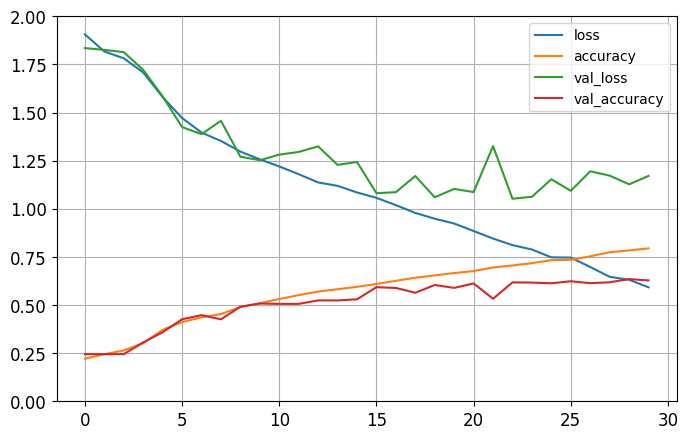
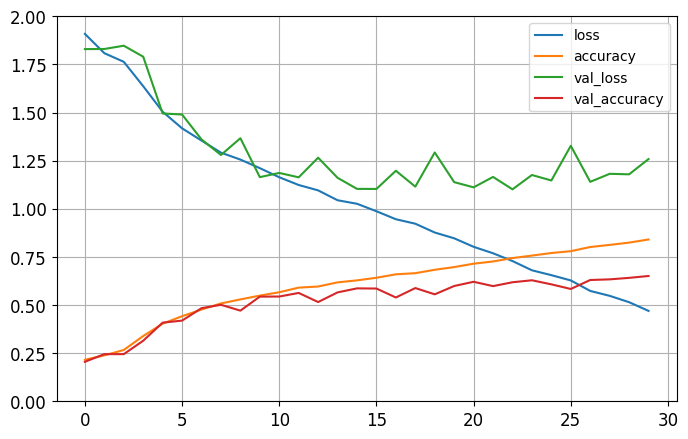
image change

Changed region(s): [[0.1221, 0.0888, 0.9462, 0.7699], [0.1831, 0.7699, 0.2137, 0.7995], [0.1221, 0.7995, 0.1526, 0.8292]]

diff --git a/README.md b/README.md
@@ -7,7 +7,7 @@
 -   [Model Running](#model-running)
 -   [Conclusion](#conclusion)
 -   [Future Research](#future-research)
--   [Run Notebook in Google Colab](#run-notebook-in-google-colab)
+-   [Google Colab Notebook](#google-colab-notebook)
 -   [Youtube Video Link](#youtube-video-link)
 
 # Introduction
@@ -54,7 +54,7 @@ To start off, we scoured the Internet in order to find an example code to start 
 The model itself is a sequential model that utilizes convolutional neural networks (CNNs), which is perfect for this project as CNNs are regarded to be very accurate at image recognition and classification. We have 2D convolution layers, where the kernel performs element wise multiplication and summation of results into a single output. For our activation function, we have a ReLU function in our hidden layers, as it circumvents the vanishing gradient problem, results in a better performance and converges at a faster rate than other activation functions. We have also discussed in class that the ReLU sometimes performs better than the hyperbolic tangent functions, and we have also found that to be the case in the process of hyperparameter tuning. The output layer is implemented with the softmax function and it suits our project as it is a multiclass classification problem - given the goal is to label each face with one of the seven emotions - and the softmax performs best when handling multiple classes. 
 
 ## Modifications
-Our next goal was to find a way to reconfigure the model in order to increase the accuracy of the model. We added batch normalization in order to stabilize the inputs, which we believe helped the model’s output at the end. Also, we added max pooling to remove invariances, making the model detect the presence of features rather than its exact location. The specific change we made was to remove average pooling and only utilize max pooling because we believe the former wasn’t extracting important features and was causing the accuracy to be lower. Since we wanted to eventually test the model on images of tilted faces in different angles, we found max pooling to be crucial in the model’s accuracy. Moreover, we added additional layers and experimented to find the optimal solution, meanwhile considering the time we had. Utilizing the GPU engine present in Google Colab, we experimented with different number of layers and tracked the accuracies, which sometimes dropped off from the starting point of 58% accuracy. Eventually, we ended up with a model with over 20 million parameters. We ran the model and received an accuracy ouput of 62%, which was a big improvement. We will dive deeper into the model results below in the conclusion.
+Our next goal was to find a way to reconfigure the model in order to increase the accuracy of the model. We added batch normalization in order to stabilize the inputs, which we believe helped the model’s output at the end. Also, we added max pooling to remove invariances, making the model detect the presence of features rather than its exact location. The specific change we made was to remove average pooling and only utilize max pooling because we believe the former wasn’t extracting important features and was causing the accuracy to be lower. Since we wanted to eventually test the model on images of tilted faces in different angles, we found max pooling to be crucial in the model’s accuracy. Moreover, we added additional layers and experimented to find the optimal solution, meanwhile considering the time we had. Utilizing the GPU engine present in Google Colab, we experimented with different number of layers and tracked the accuracies, which sometimes dropped off from the starting point of 58% accuracy. Eventually, we ended up with a model with over 20 million parameters. We ran the model and received an accuracy ouput of 65%, which was a big improvement. We will dive deeper into the model results below in the conclusion.
 
 
 # Facial Recognition
@@ -71,26 +71,8 @@ Let's use the below image as example for how we applied our model in "real-life"
 
 1. Before performing any face detection, we first converted the image to grayscale to reduce its noise and improve computational efficiency as it is easier to identify faces in grayscale than in color. 
 
-<p align="center">
-    <img src = "images/grayscale.png" alt = "Grayscale image">
-</p>
 
-2. Face detection
-- We used the pre-trained haarcascade classifier built in OpenCV for face detection. This algorithm uses edge or line detection features proposed by Viola and Jones. This model is based on the sum of pixels for various facial features - such as eyes are darker than the nose and cheeks regions, and eyes are darker than the bridge of the nose - and is trained with a lot of positive images with faces and negative images with no face. 
-- We chose to use the OpenCV haarcascade classifier because it is fast and requires less computing power, making it suitable for our limited time and resource. It can also detect faces in a wide range of orientations and scales, making them versatile for a variety of situations and scenarios. 
-- However, we have later learned that the downside of the haarcascade model is that it produces many false positives as shown below. 
-
-<p align="center">
-    <img src = "images/faulty_face_detection.png" alt = "Faulty face detection image">
-</p>
-
-- In order to reduce the number of false positive, we decided to make the filtering process a bit more strict: we increased the minNeighbors to three so false positives from the background are removed; and we modified the scaleFactor to 1.3 so the larger faces, or the main faces in the frame, can be detected faster and more accurately. (See below)
-
-<p align="center">
-    <img src = "images/final_face_detection_results.png" alt = "Improved face detection results">
-</p>
-
-- As we can see, these changes run the risk of missing some faces, but we think eliminating false positives is more important than missing a few true positives in terms of efficiency and accuracy.
+For face detection, we used the pre-trained haarcascade classifier built in OpenCV. This algorithm uses edge or line detection features proposed by Viola and Jones. This model is based on the sum of pixels for various facial features - such as eyes are darker than the nose and cheeks regions, and eyes are darker than the bridge of the nose - and is trained with a lot of positive images with faces and negative images with no face. We chose to use the OpenCV haarcascade classifier because it is fast and requires less computing power, making it suitable for our limited time and resource. It can also detect faces in a wide range of orientations and scales, making them versatile for a variety of situations and scenarios. However, we have later learned that the downside of the haarcascade model is that it produces many false positives. In order to reduce the number of false positive, we decided to make the filtering process a bit more strict: we increased the minNeighbors to three so false positives from the background are removed; and we modified the scaleFactor to 1.3 so the larger faces, or the main faces in the frame, can be detected faster and more accurately. These changes run the risk of missing some faces, but we think eliminating false positives is more important than missing a few true positives in terms of efficiency and accuracy.
 
 # Model Running
 (OYU)
@@ -99,20 +81,15 @@ Let's use the below image as example for how we applied our model in "real-life"
 - the results and accuracy of our model on those images
 
 
-"Real-life" imag           |  Emotion recognition results
-:-------------------------:|:-------------------------:
-![](https://github.com/OyuntugsGantumur/ML_project/blob/main/test_images/test_3.png?raw=true)  |  ![](https://github.com/OyuntugsGantumur/ML_project/blob/main/images/image_result_1.png?raw=true)
-
-
 # Conclusion
-In conclusion, we were able to find boilerplate code for our model and tweak the parameters in order to further improve and optimize it. The model started off having accuracy of 58% and we were able to raise to a consistent output of 62%, by the usage of batch regularization and max pooling. Looking at the result graph below we can see that there is a case of overfitting happening, which could be remedied by adding more data and reducing the number of features. The main issue that we faced in the process of conducting this research was the facial recognition system by Computer Vision library which would sometimes miss human facial features or falsely detect background areas as human faces, as we explained in detail above. This project could benefit from further research and development where we either find the optimal way of facial recognition or create a model that is fed with datasets filled with images of human faces in various angles and positions.
+In conclusion, we were able to find boilerplate code for our model and tweak the parameters in order to further improve and optimize it. The model started off having accuracy of 58% and we were able to raise to a consistent output of 65%, by the usage of batch regularization and max pooling. Looking at the result graph below we can see that there is a case of overfitting happening, which could be remedied by adding more data and reducing the number of features. The main issue that we faced in the process of conducting this research was the facial recognition system by Computer Vision library which would sometimes miss human facial features or falsely detect background areas as human faces, as we explained in detail above. This project could benefit from further research and development where we either find the optimal way of facial recognition or create a model that is fed with datasets filled with images of human faces in various angles and positions.
 
 <p align="center">
     <img src = "images/model_result.png" alt = "Model Result">
 </p>
 
 
-# Run Notebook in Google Colab
+# Google Colab Notebook
 
 Click the link below to run [our notebook](https://github.com/pard187/pard187.github.io/blob/master/Final_Project_Gormley_Giffin_Johnston_Saleh.ipynb) directly in Google Collab. No coding is required to run this notebook, you just need to run every code cell in order or simply click Runtime -> Run all and wait for all cells to run. 
 Click the link below to run [our notebook](https://github.com/pard187/pard187.github.io/blob/master/Final_Project_Gormley_Giffin_Johnston_Saleh.ipynb) directly in Google Collab. No coding is required to run this notebook, you just need to run every code cell in order or simply click Runtime -> Run all and wait for all cells to run.
